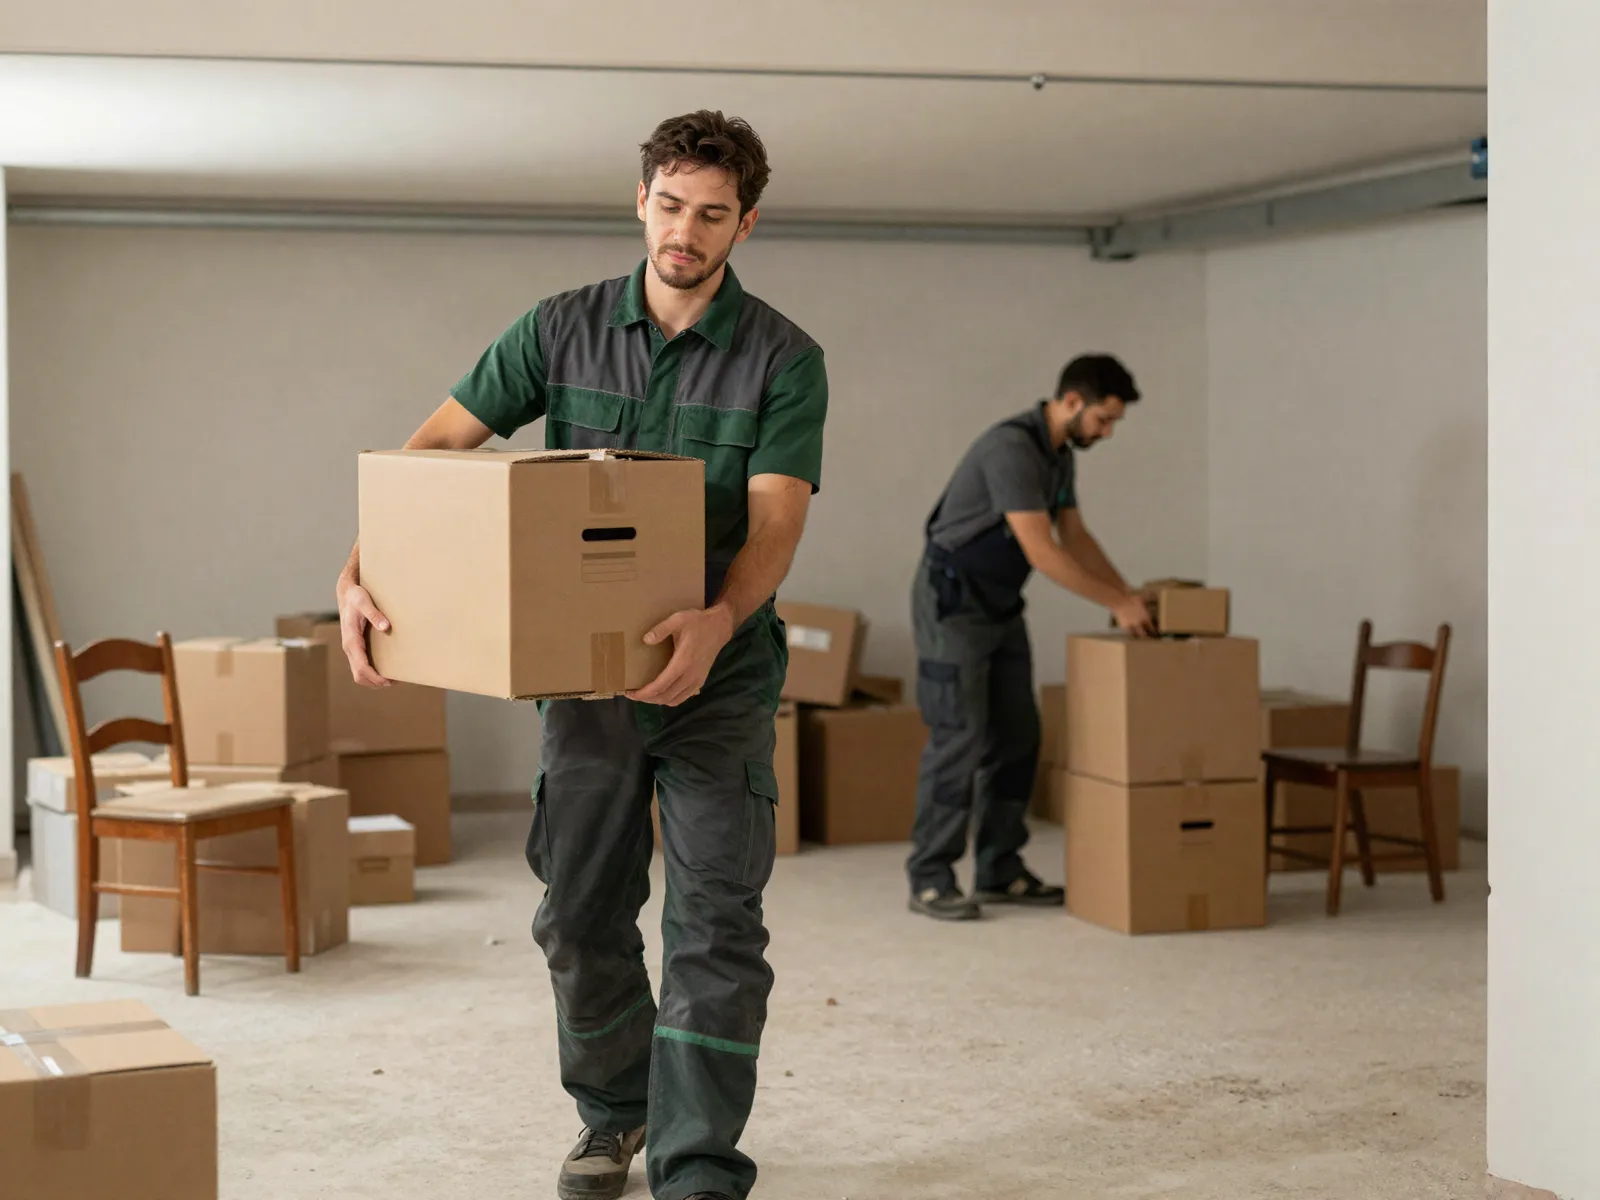
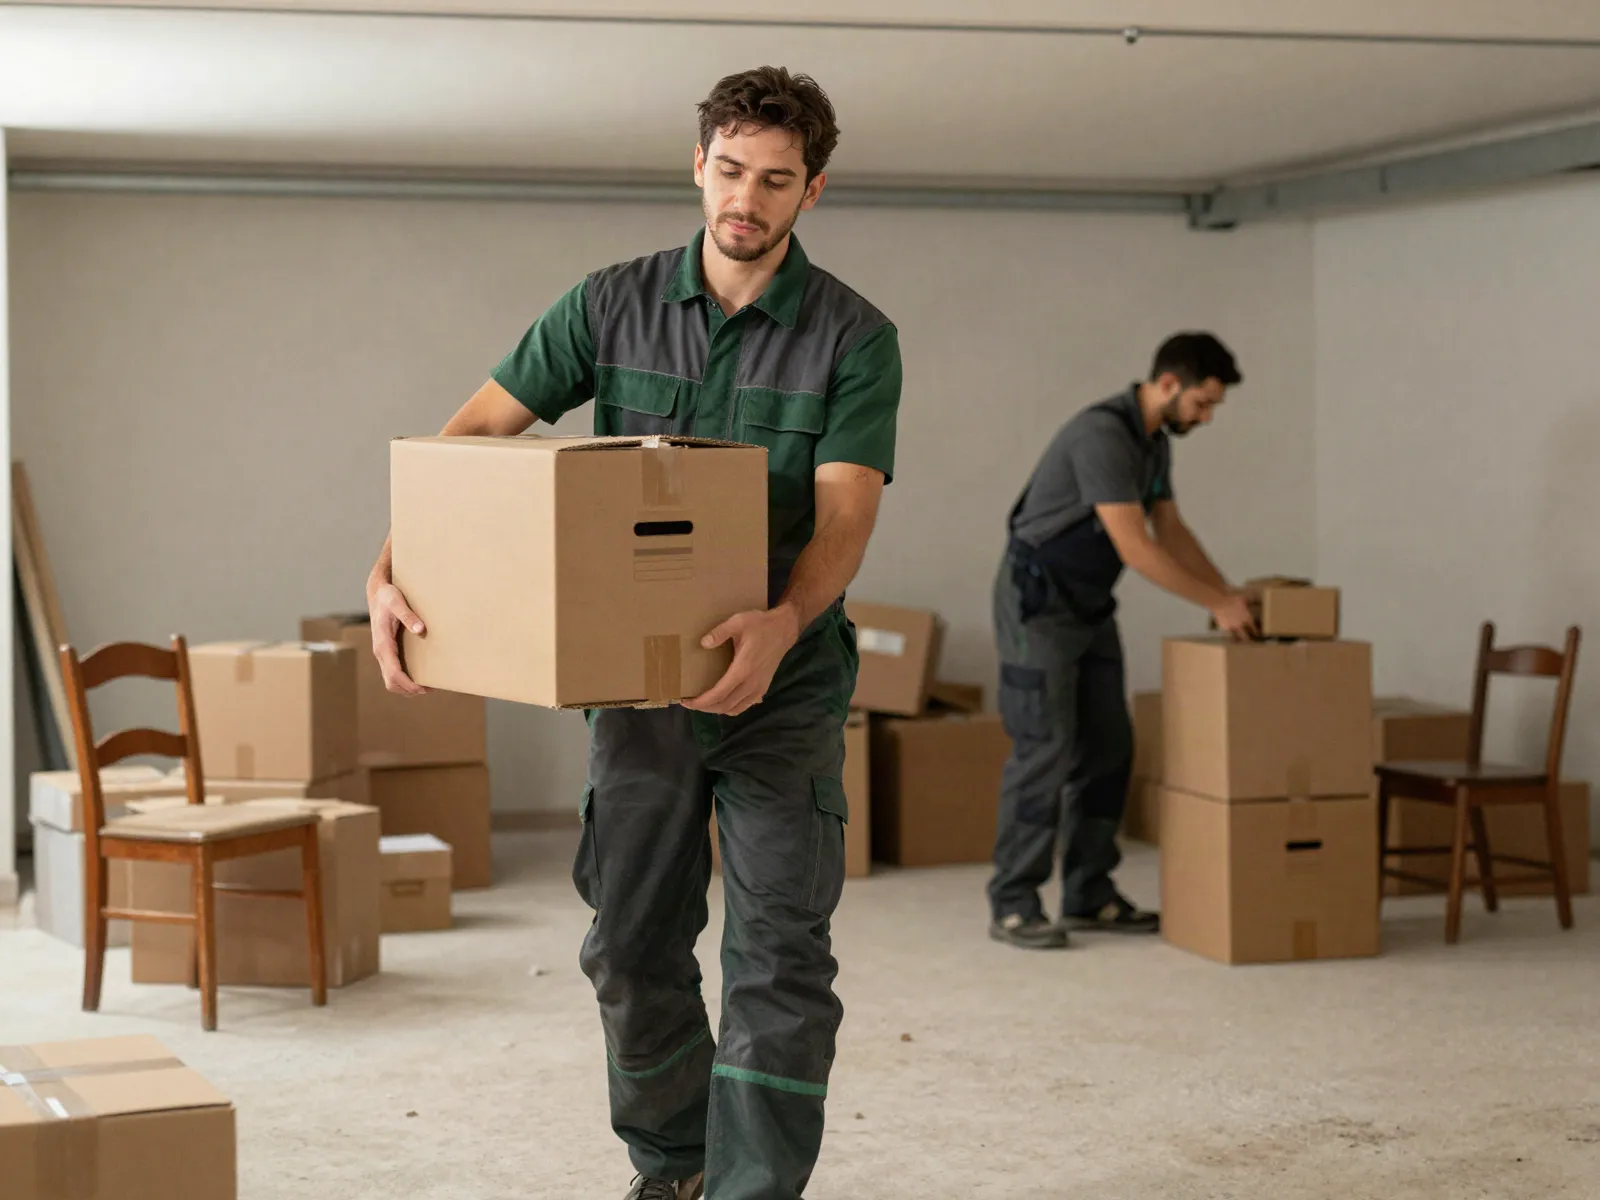
Kategorie-Kasten: Foto und Text je halb, Leistungen mit Festpreis/Angebot statt Zähler, Randstreifen aus zwei Fotos entfernt

diff --git a/src/components/home/category-explorer.tsx b/src/components/home/category-explorer.tsx
@@ -14,7 +14,6 @@ import { PhotoSlot } from "@/components/ui/photo-slot";
 export function CategoryExplorer({ categories, citySlug }: { categories: ExplorerCategory[]; citySlug: string }) {
   const [active, setActive] = useState(0);
   const current = categories[active];
-  const fixedCount = current.services.filter((s) => s.mode === "festpreis").length;
 
   return (
     <div id="leistungen" className="mx-auto max-w-[1240px] scroll-mt-6 px-5 pb-16 sm:px-7">
@@ -61,26 +60,44 @@ export function CategoryExplorer({ categories, citySlug }: { categories: Explore
           ))}
         </ul>
 
-        <div className="flex flex-wrap overflow-hidden rounded-panel bg-white shadow-[0_2px_10px_rgba(11,46,31,0.06)]">
-          <PhotoSlot tone={current.tone} hint={current.photoHint} src={current.photoSrc} className="min-h-[260px] flex-[1_1_480px] sm:min-h-[320px]" />
-          <div className="flex min-w-0 flex-[1_1_400px] flex-col justify-center gap-4 p-7 sm:p-12">
+        <div className="grid overflow-hidden rounded-panel bg-white shadow-[0_2px_10px_rgba(11,46,31,0.06)] md:grid-cols-2">
+          <PhotoSlot
+            tone={current.tone}
+            hint={current.photoHint}
+            src={current.photoSrc}
+            sizes="(min-width: 768px) 50vw, 100vw"
+            className="aspect-[4/3] w-full md:aspect-auto md:h-full md:min-h-[380px]"
+          />
+          <div className="flex min-w-0 flex-col justify-center gap-5 p-7 sm:p-10">
             <h2 className="text-[32px] font-extrabold tracking-[-0.03em] text-brand-dark">{current.label}</h2>
             <p className="text-[17px] leading-relaxed text-ink-soft">{current.summary}</p>
-            <dl className="grid grid-cols-2 border-t border-line pt-4">
-              <div>
-                <dt className="text-xs font-semibold uppercase tracking-[0.06em] text-muted">Festpreis-Leistungen</dt>
-                <dd className="mt-1 text-xl font-extrabold">{fixedCount}</dd>
-              </div>
-              <div className="border-l border-line pl-4">
-                <dt className="text-xs font-semibold uppercase tracking-[0.06em] text-muted">Größere Projekte</dt>
-                <dd className="mt-1 text-xl font-extrabold">Per Angebot</dd>
-              </div>
-            </dl>
+            <ul className="divide-y divide-line border-y border-line">
+              {current.services.slice(0, 4).map((s) => (
+                <li key={s.slug}>
+                  <Link
+                    href={`/${citySlug}/${current.slug}#${s.slug}`}
+                    className="group flex items-center justify-between gap-3 py-3 text-[15px] font-semibold"
+                  >
+                    <span className="group-hover:text-brand">{s.name}</span>
+                    <span className="flex items-center gap-2">
+                      <span
+                        className={`rounded-full px-2.5 py-1 text-xs font-bold ${
+                          s.mode === "festpreis" ? "bg-mint text-brand-dark" : "bg-soft text-ink-soft"
+                        }`}
+                      >
+                        {s.mode === "festpreis" ? "Festpreis" : "Angebot"}
+                      </span>
+                      <Icon name="pfeil" size={16} strokeWidth={2.2} className="text-muted group-hover:text-brand" />
+                    </span>
+                  </Link>
+                </li>
+              ))}
+            </ul>
             <Link
               href={`/${citySlug}/${current.slug}`}
               className="self-start rounded-full bg-brand px-6 py-3.5 font-bold text-white transition-colors hover:bg-brand-dark"
             >
-              {current.trade} ansehen
+              Alle Leistungen ansehen
             </Link>
           </div>
         </div>
